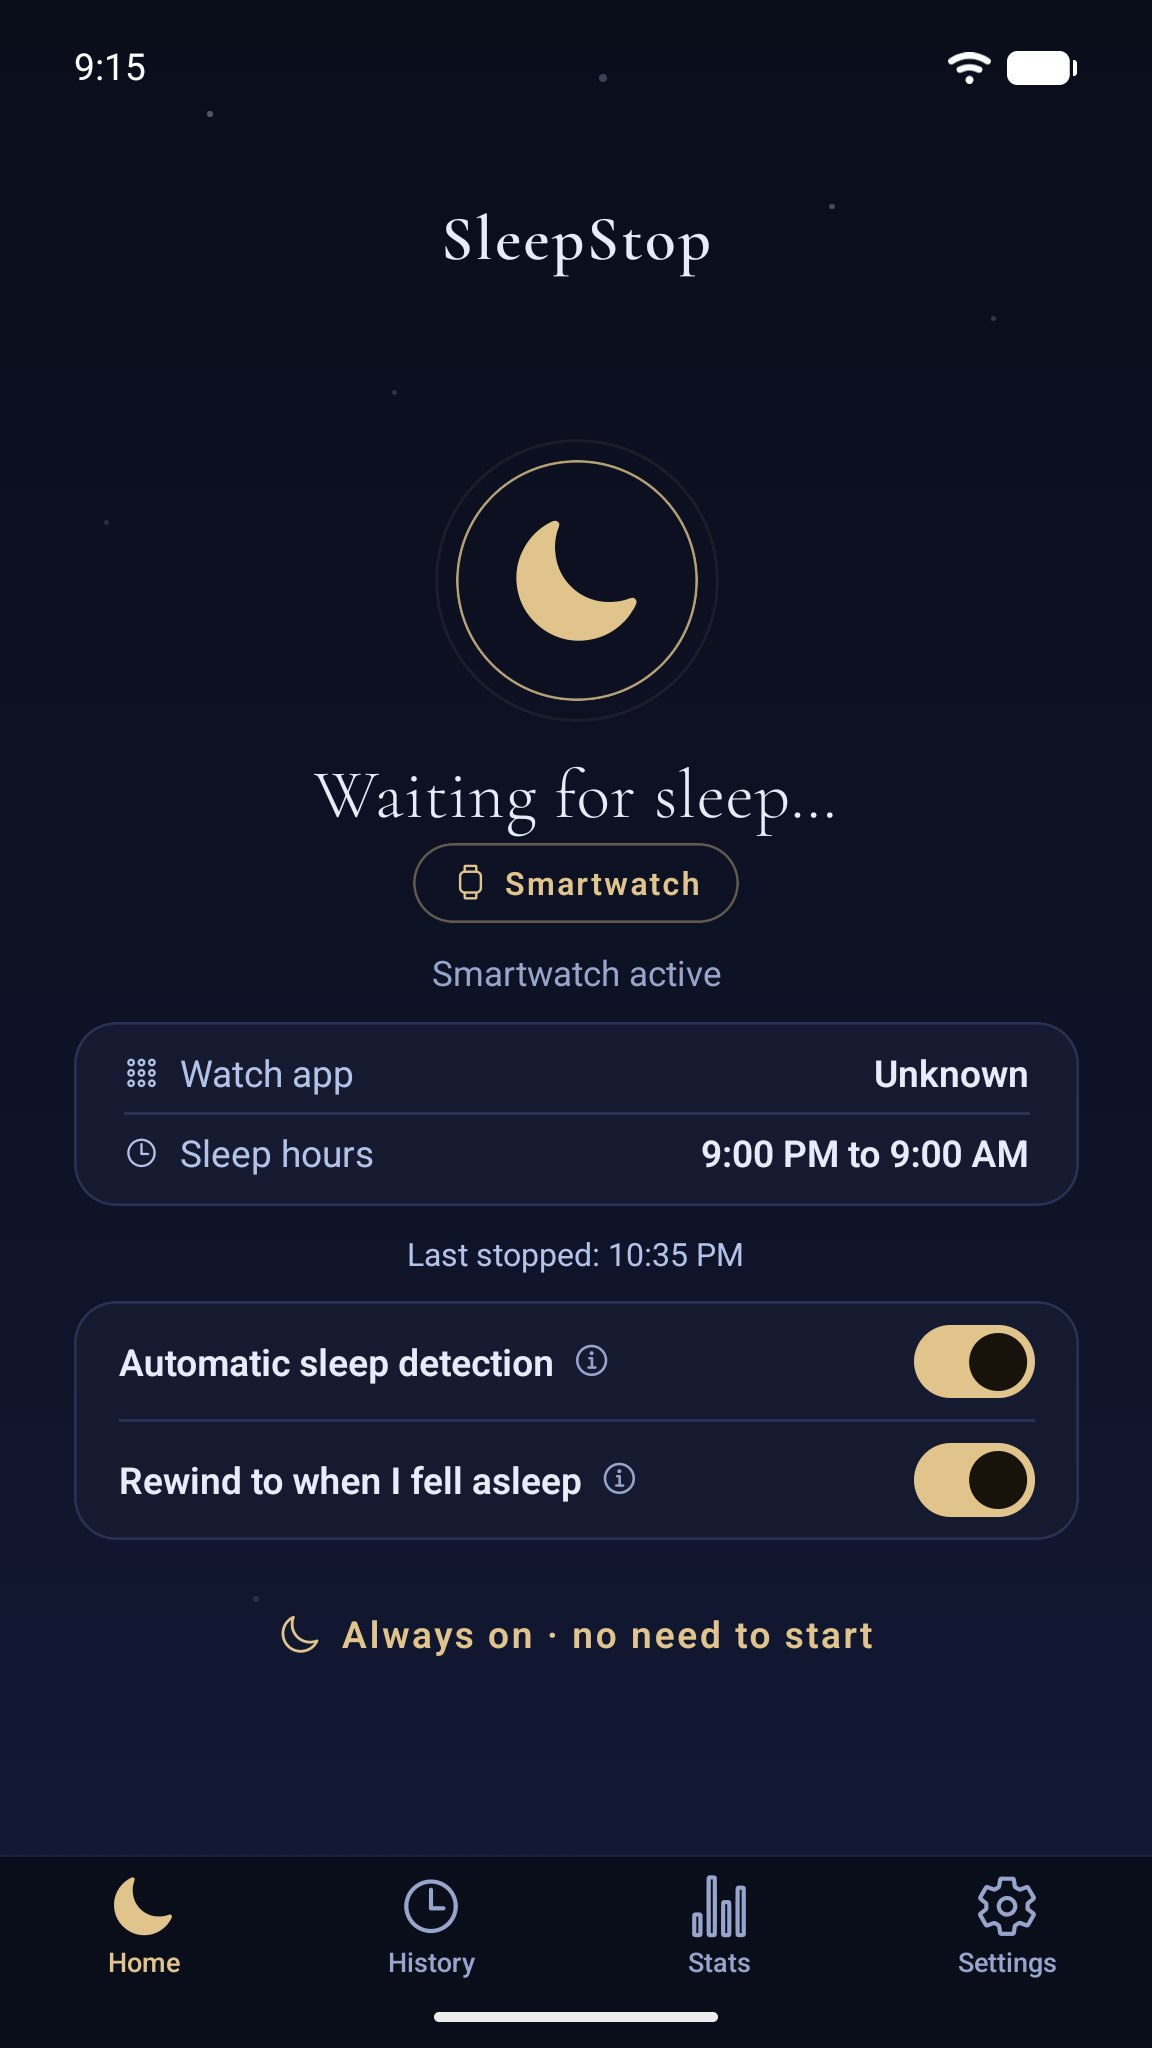
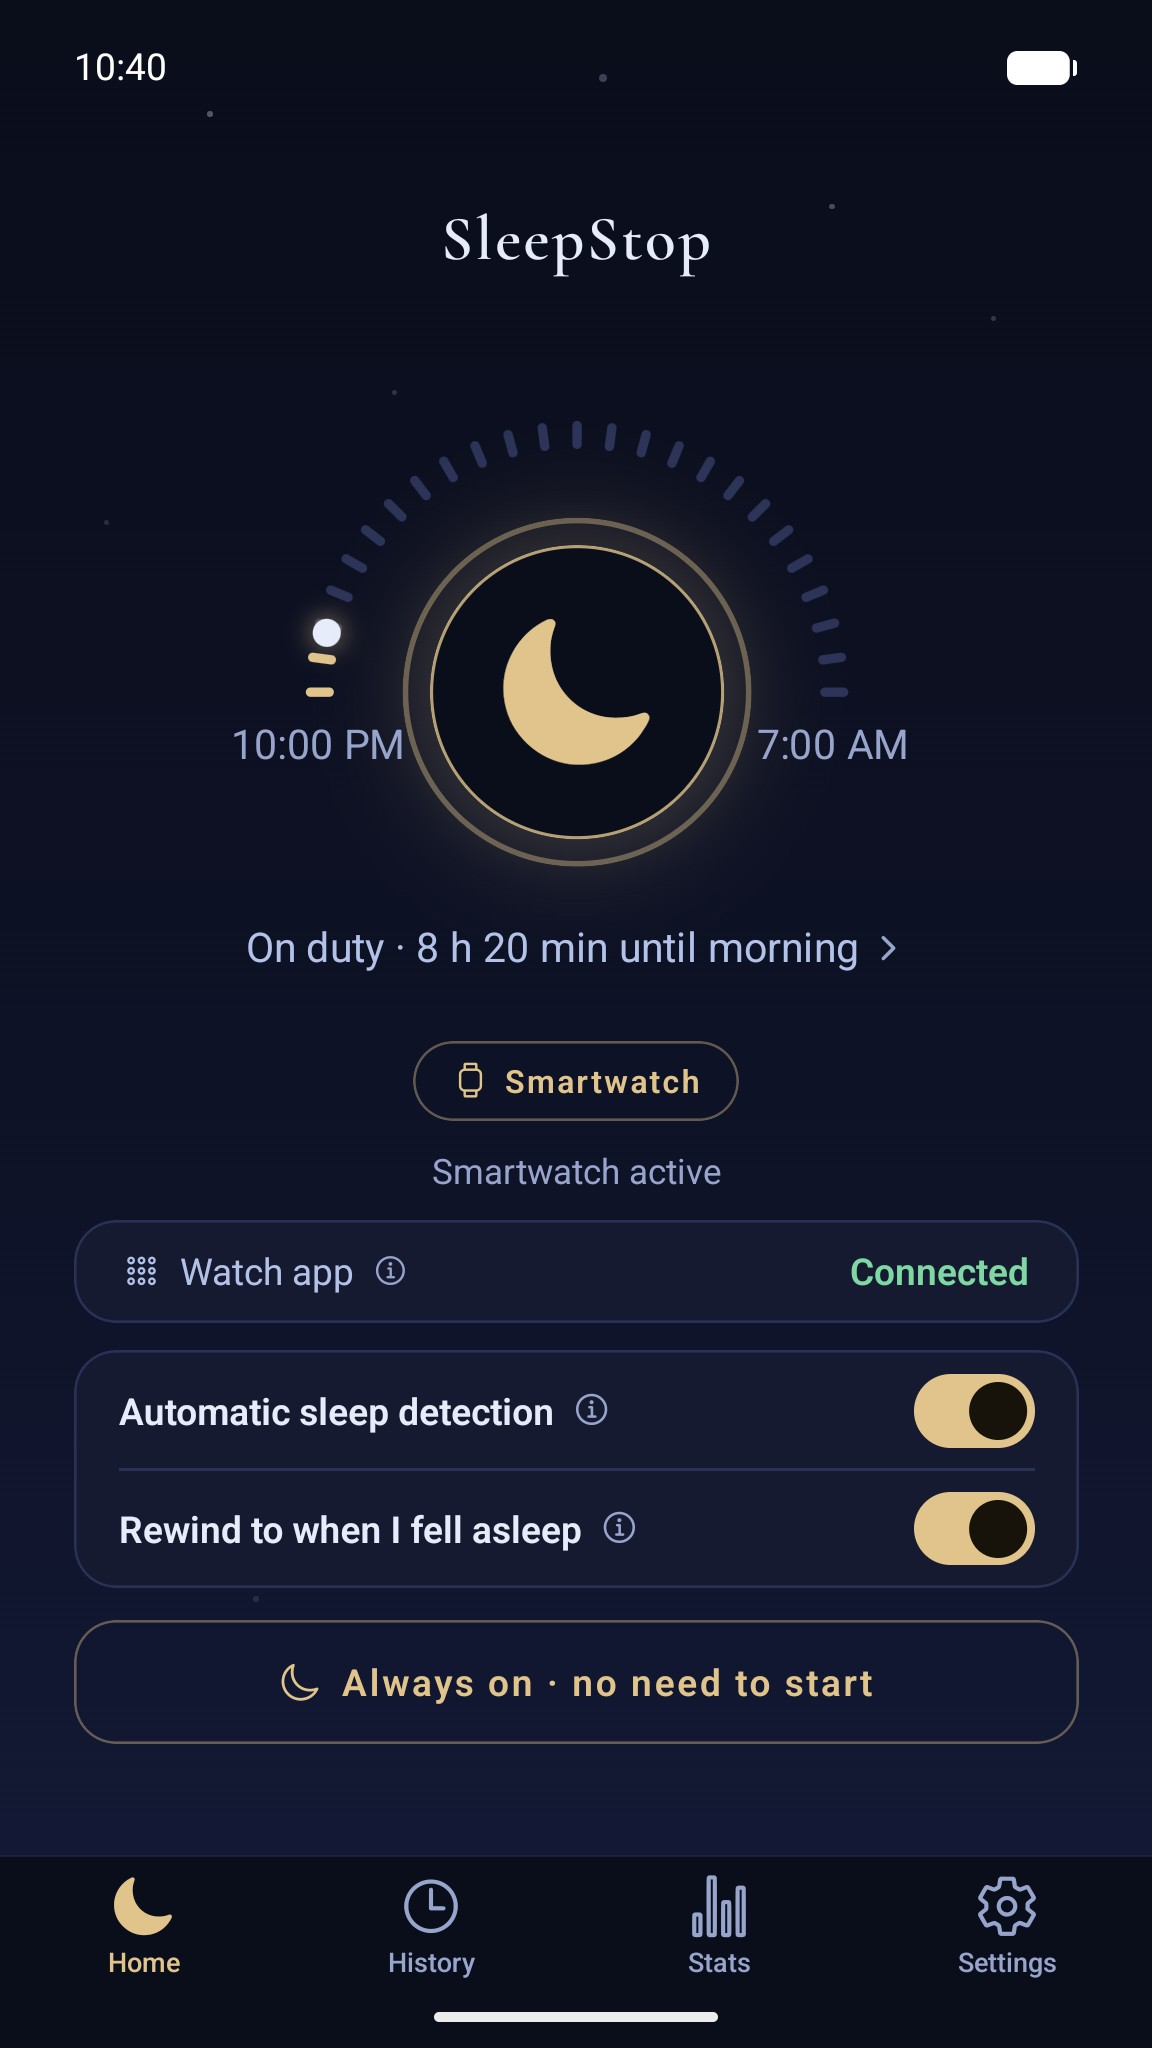
fix(site): slimmer equal phone frames, hover zoom only for mouse, v17 screenshots

diff --git a/index.html b/index.html
@@ -163,13 +163,13 @@
             <div class="phone-pair">
               <div class="phone-pair-item">
                 <div class="phone-frame">
-                  <img src="assets/phone-home.jpg" alt="SleepStop Home screen in Smartwatch mode: status, a watch-app and sleep-hours summary, and the Automatic sleep detection and Rewind to when I fell asleep toggles, each with an info button" />
+                  <img src="assets/phone-home.jpg" alt="SleepStop Home screen in Smartwatch mode: a dial counting down to morning, the watch connected, and the Automatic sleep detection and Rewind to when I fell asleep toggles" />
                 </div>
                 <p class="pair-label">With a Smartwatch</p>
               </div>
               <div class="phone-pair-item">
                 <div class="phone-frame">
-                  <img src="assets/phone-home-phone.jpg" alt="SleepStop Home screen in phone-only mode: choose to stop when you drift off, or dial in an exact number of minutes on the same screen" />
+                  <img src="assets/phone-home-phone.jpg" alt="SleepStop Home screen in phone-only mode: choose to stop when you drift off, or dial in how many minutes you lie still, with a START button" />
                 </div>
                 <p class="pair-label">Just your phone</p>
               </div>
@@ -189,7 +189,7 @@
         <div class="feature-row">
           <div class="feature-media">
             <div class="phone-frame">
-              <img src="assets/phone-history.jpg" alt="SleepStop History: a timestamped list of the nights it muted your audio - app, chapter and position - the most recent one outlined in gold." />
+              <img src="assets/phone-history.jpg" alt="SleepStop History: last night's stop outlined in gold - when you fell asleep, the audiobook and chapter, and where it stopped - above a timestamped list of earlier nights." />
             </div>
             <p class="feature-caption">History - every night it stopped your audio</p>
           </div>
@@ -204,7 +204,7 @@
         <div class="feature-row">
           <div class="feature-media">
             <div class="phone-frame">
-              <img src="assets/phone-stats.jpg" alt="SleepStop Stats screen: 'You usually fall asleep at 11:11 PM, ± 19 min', weeknights versus weekends, the last 14 nights against your usual time, and the apps you fall asleep to" />
+              <img src="assets/phone-stats.jpg" alt="SleepStop Stats screen: when you fall asleep over the last 7 days, 14 days or all nights, how many minutes you listen before you drift off, and what you fall asleep to" />
             </div>
             <p class="feature-caption">Stats - your usual bedtime, in numbers</p>
           </div>

diff --git a/styles.css b/styles.css
@@ -694,10 +694,10 @@ p { margin: 0 0 var(--space-lg); }
    shows the whole image at its natural height — no object-fit cropping. */
 .phone-frame {
   width: 100%;
-  max-width: 260px;
+  max-width: 220px;
   margin-inline: auto;
-  border-radius: 34px;
-  padding: 9px;
+  border-radius: 28px;
+  padding: 5px;
   background: linear-gradient(155deg, #3a3f4d 0%, #20242f 45%, #12151d 100%);
   box-shadow:
     0 26px 60px rgba(0, 0, 0, 0.55),
@@ -708,7 +708,7 @@ p { margin: 0 0 var(--space-lg); }
   display: block;
   width: 100%;
   height: auto;
-  border-radius: 26px;
+  border-radius: 23px;
   background: var(--bg);
 }
 
@@ -759,7 +759,7 @@ p { margin: 0 0 var(--space-lg); }
   align-items: center;
   gap: var(--space-sm);
   flex: 1 1 140px;
-  max-width: 180px;
+  max-width: 220px;
 }
 .phone-pair .phone-frame { max-width: 100%; margin-inline: 0; }
 .pair-label {
@@ -968,11 +968,20 @@ p { margin: 0 0 var(--space-lg); }
   transform-origin: 50% 100%; /* grow upward from the bottom edge, away from the caption below */
   transition: transform 0.35s ease;
 }
-.feature-media > .phone-frame:hover,
-.phone-pair .phone-frame:hover,
-.device-combo:hover {
-  transform: translateY(-10px) scale(1.09);
-  z-index: 2;
+/* Only for a mouse in the side-by-side layout. On touch screens :hover sticks after a tap, and in the
+   stacked mobile layout the zoomed phone ran over the text (his report 2026-11-07). */
+@media (hover: hover) and (pointer: fine) and (min-width: 861px) {
+  .feature-media > .phone-frame:hover,
+  .phone-pair .phone-frame:hover,
+  .device-combo:hover {
+    transform: translateY(-10px) scale(1.09);
+    z-index: 2;
+  }
+}
+/* Narrow screens: the two Home phones stack, so every phone on the page is the same size. */
+@media (max-width: 600px) {
+  .phone-pair { flex-direction: column; align-items: center; gap: var(--space-xl); }
+  .phone-pair-item { flex: none; width: 220px; max-width: 100%; }
 }
 
 /* ==========================================================================
